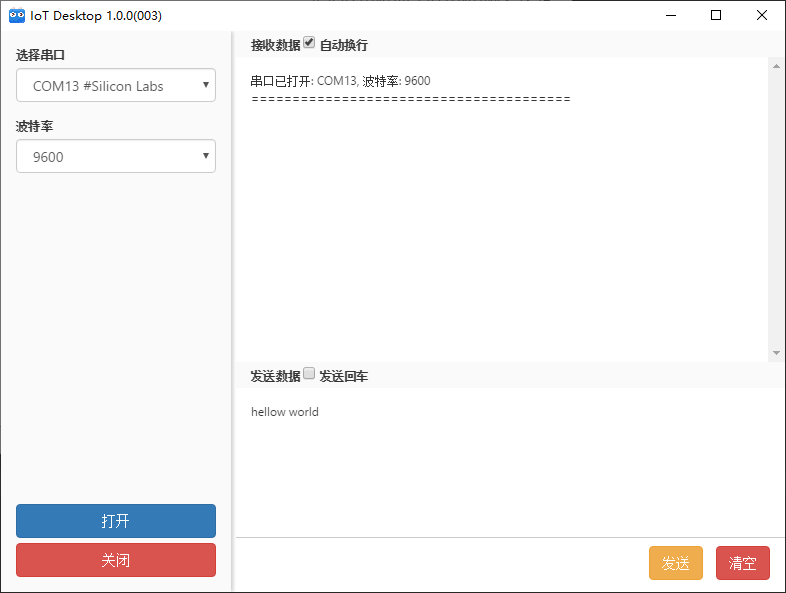
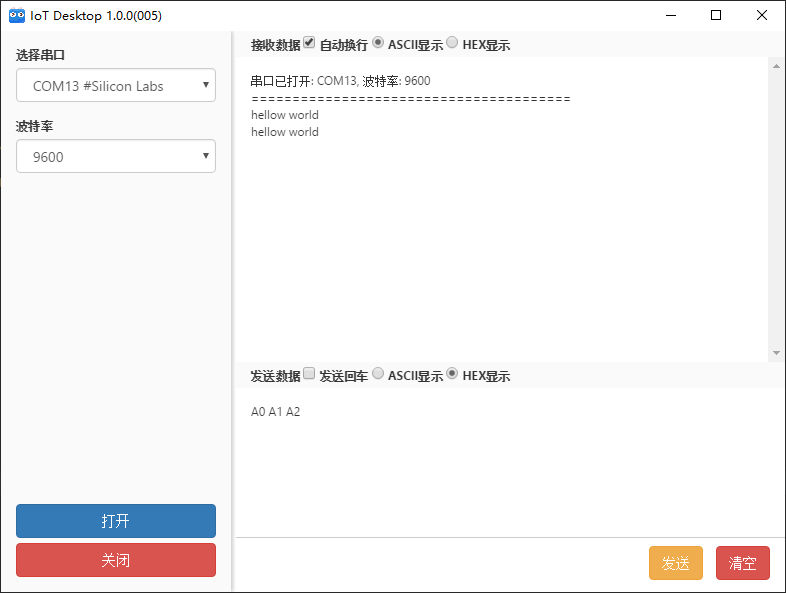
增加发送区域的ascii和hex转换

diff --git a/index.js b/index.js
@@ -14,6 +14,7 @@ var revCountTemp = 0;
 var rateArray = [9600, 14400, 19200, 38400, 56000, 115200, 256000];
 var serialData = '';
 var sendData = '';
+var sendHexData = new Array();
 var timerRev;
 
 function wrapEvent() {
@@ -151,7 +152,7 @@ $('.btn-cancle').click(() => {
 $('input#optionsSendStrDisplay').change(function () {
     console.log('optionsSendStrDisplay',$(this).val());
     sendData = $('.input-send-data').val();
-    let sendDataDis = utils.hex2str(sendData);
+    let sendDataDis = utils.hex2strToDis(sendData);
     $('.input-send-data').val(sendDataDis);
 })
 
@@ -169,6 +170,18 @@ $('.btn-send').click(() => {
     if($("#optionsSendStrDisplay").is(":checked") == true){
         console.log('optionsSendStrDisplay',$("#optionsSendStrDisplay").is(":checked"))
         sendData = $('.input-send-data').val();
+
+        //发送回车
+        if($("#enter-checked").is(":checked") == true){ sendData += '\r\n'; }
+        console.log('enter-checked',$("#enter-checked").is(":checked"))
+
+        if (port != {} && port != null) {
+            console.log(`SendData: ${sendData}`);
+
+            port.write(sendData, (err) =>{
+                if (err) return console.log('write Error: ', err.message);
+            });
+        }
     }
     //hex发送
     if($("#optionsSendHexDisplay").is(":checked") == true){
@@ -176,21 +189,22 @@ $('.btn-send').click(() => {
         sendData = $('.input-send-data').val();
 
         //sendData = Buffer.from(sendData,'ascii').toString('hex')
-        sendData = utils.hex2str(sendData)
-    }
+        sendHexData = utils.hex2str(sendData)
 
-    //发送回车
-    if($("#enter-checked").is(":checked") == true){ sendData += '\r\n'; }
-    console.log('enter-checked',$("#enter-checked").is(":checked"))
+        //发送回车
+        if($("#enter-checked").is(":checked") == true){
+            sendHexData.push(0x0D)
+            sendHexData.push(0x0A)
+        }
+        console.log('enter-checked',$("#enter-checked").is(":checked"))
 
-    if (port != {} && port != null) {
-        console.log(`SendData: ${sendData}`);
-        /*var test = new Array();
-        test[0] = 0xA0;
-        console.log(`SendData: ${test}`);*/
-        port.write(sendData, (err) =>{
-            if (err) return console.log('write Error: ', err.message);
+        if (port != {} && port != null) {
+            console.log(`sendHexData: ${sendHexData}`);
+
+            port.write(sendHexData, (err) =>{
+                if (err) return console.log('write Error: ', err.message);
         });
+        }
     }
 })
 // 清空接收的数据

diff --git a/public/js/utils.js b/public/js/utils.js
@@ -39,11 +39,12 @@ function str2hex(str) {
     return val
 }
 
-function hex2str(hex) {
-    if(hex == ""){
-        console.log("hex2str hex is null")
+function hex2strToDis(hex) {
+    if(hex == "") {
+        console.log("hex2strToDis hex is null")
         return
     }
+
     var val = "";
     var arr = hex.split(" ");
     console.log('arr',arr)
@@ -54,6 +55,27 @@ function hex2str(hex) {
             val += String.fromCharCode(parseInt(arr[i],16));
         }
     }
+    console.log("hex2strToDis",val)
+    return val
+}
+
+function hex2str(hex) {
+    if(hex == ""){
+        console.log("hex2str hex is null")
+        return
+    }
+    var val = new Array();
+    var arr = hex.split(" ");
+    console.log('arr',arr)
+    for(var i = 0; i < arr.length; i++){
+        /*console.log('string charcode',String.fromCharCode(parseInt(arr[i],16)))
+        if(String.fromCharCode(parseInt(arr[i],16)) != null)
+        {
+            val[i] += String.fromCharCode(parseInt(arr[i],16));
+        }*/
+        console.log('parseInt',parseInt(arr[i],16))
+        val[i] = parseInt(arr[i],16)
+    }
     console.log('hex2str',val)
     return val
 }
@@ -61,5 +83,6 @@ function hex2str(hex) {
 module.exports = {
     str2hex: str2hex,
     str2hexToDis: str2hexToDis,
-    hex2str: hex2str
+    hex2str: hex2str,
+    hex2strToDis: hex2strToDis
 }

diff --git a/index.html b/index.html
@@ -6,7 +6,7 @@
     <meta name="viewport" content="width=device-width, initial-scale=1.0">
     <meta http-equiv="X-UA-Compatible" content="ie=edge">
     <link rel="shortcut icon" href="static/favicon.ico">
-    <title>IoT Desktop 1.0.0(004)</title>
+    <title>IoT Desktop 1.0.0(005)</title>
     <script src="./public/js/flexible.js"></script>
     <link rel="stylesheet" href="./public/css/bootstrap.min.css">
     <link rel="stylesheet" href="./public/css/index.css">

diff --git a/README.md b/README.md
@@ -1,11 +1,11 @@
 # IoT-electron
 ## 版本
->1.0.0 (004)
+>1.0.0 (005)
 ## 版本描述
 >增加的功能
-- 接收的ascii和hex转换
->准备增加的功能
+- 接收的ascii和hex转换(存在hex数据显示错误问题，下版本修复)
 - 发送的ascii和hex转换
+>准备增加的功能
 - 校验位，数据位，停止位的设置
 - 波特率的动态修改
 - 自定义波特率
